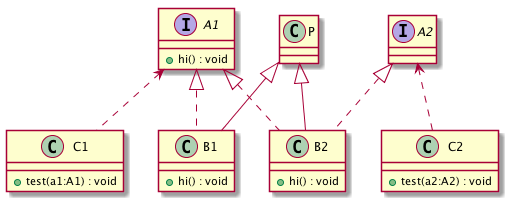
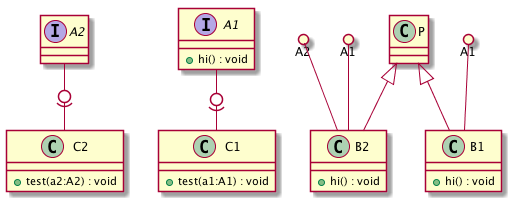
lollipop

diff --git a/src/main/java/edu/sjsu/cmpe/yutao/UmlParser.java b/src/main/java/edu/sjsu/cmpe/yutao/UmlParser.java
@@ -143,7 +143,7 @@ public class UmlParser {
                 if (classMap.containsKey(name)) {
                     String relationKey = name + "_" + cid.getName();
                     relationshipMap.put(relationKey,
-                            new UmlRelationship(classMap.get(name), "", cid, "", UmlRelationShipType.IM));
+                            new UmlRelationship(classMap.get(name), "", cid, "", UmlRelationShipType.IM_LOLI));
                 }
             }
         }
@@ -291,7 +291,7 @@ public class UmlParser {
         // if they have stronger relationship, ignore dependency
         if (!relationshipMap.containsKey(relationKey) && depCID.isInterface()) {
             relationshipMap.put(relationKey,
-                    new UmlRelationship(depCID, "", this.currentCID, "", UmlRelationShipType.DEP));
+                    new UmlRelationship(depCID, "", this.currentCID, "", UmlRelationShipType.DEP_LOLI));
         }
     }
 

diff --git a/src/main/java/edu/sjsu/cmpe/yutao/UmlRelationShipType.java b/src/main/java/edu/sjsu/cmpe/yutao/UmlRelationShipType.java
@@ -8,7 +8,8 @@ public enum UmlRelationShipType {
     IM("<|.."),
     AS("--"),
     DEP("<.."),
-    LOLI("()--");
+    IM_LOLI("()--"),
+    DEP_LOLI("-0)-");
 
     private String s;
     UmlRelationShipType(String s) {
